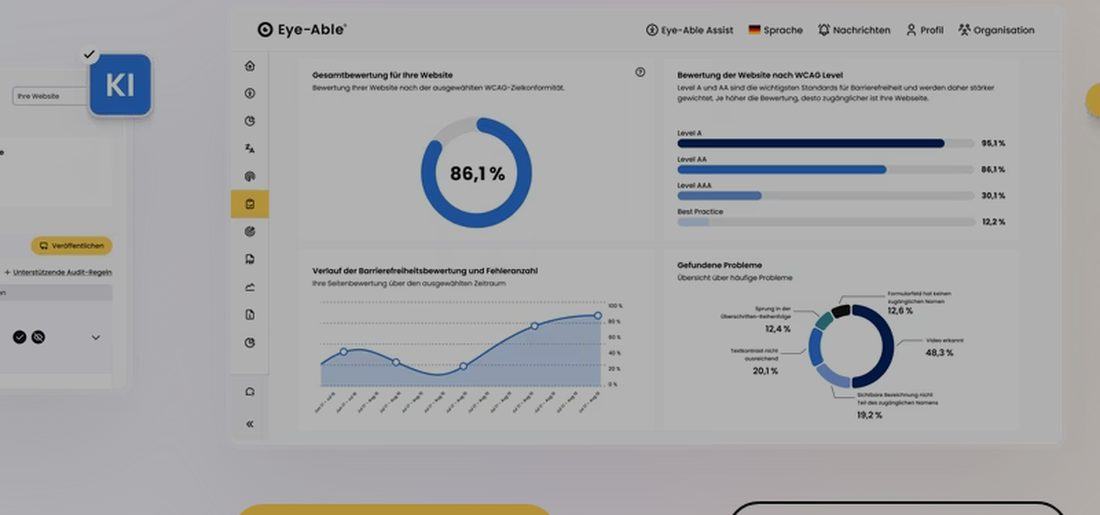
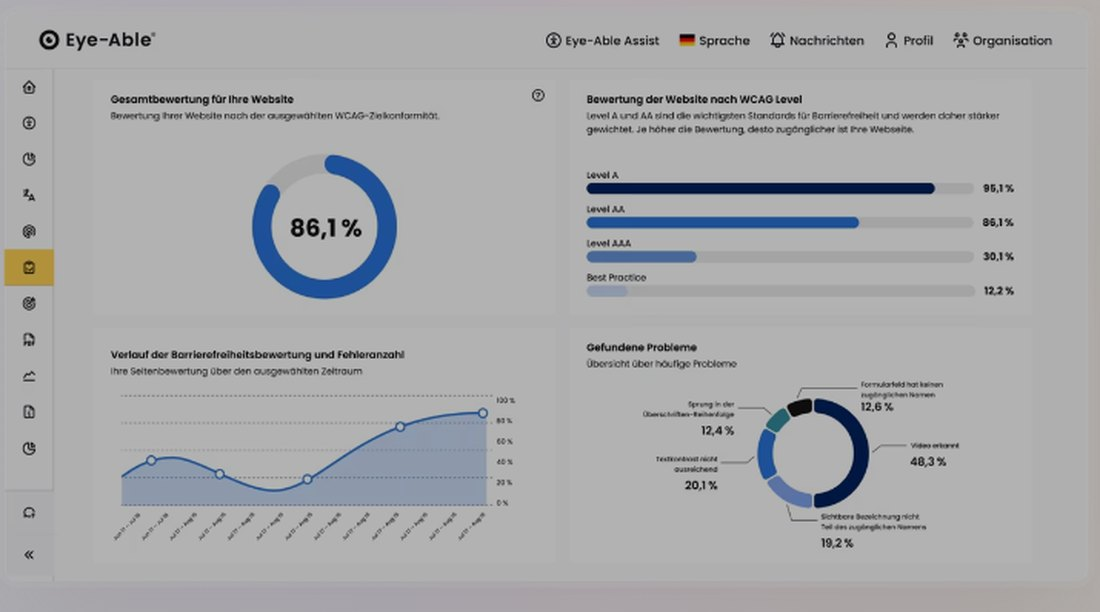
feat(profile): Produkt-Screenshots als große Close-ups statt Website-Link
Der Browser-Rahmen (Fenster-Punkte + Adressleiste) ließ die Shots wie einen
Link zur Anbieter-Website aussehen statt wie Produkt-Snapshots.

- ProductShots: Browser-Chrome raus; große, voll sichtbare Screenshots
  (sm:600px) mit dezenter Quellenzeile „Produkt-Oberfläche · <domain>".
- Eye-Able shot-1: Marketing-Startseite ersetzt durch echten Dashboard-
  Close-up (WCAG-Gesamtbewertung, Level-Bars, Verlauf, gefundene Probleme).
- Crawler-Briefing qualifiziert: Screenshots = eigentliche Produkt-Oberfläche
  (Dashboard/App-UI), NICHT die Startseite; eng zugeschnitten, ohne
  Browser-Rahmen, scharf.

diff --git a/src/components/blocks/crawler/ProductShots.tsx b/src/components/blocks/crawler/ProductShots.tsx
@@ -1,7 +1,7 @@
 import { ImageIcon } from "lucide-react";
 
 interface ProductShotsProps {
-  /** Domain für die angedeutete Browser-Adressleiste */
+  /** Domain als dezente Quellenangabe unter dem Shot */
   domain?: string;
   /** Freigegebene Screenshot-URLs (sobald vorhanden) */
   shots?: string[];
@@ -11,11 +11,13 @@ interface ProductShotsProps {
 }
 
 /**
- * Produkt-Einblick — Browser-gerahmte Software-Screenshots als Scroll-Snap-
- * Galerie. Zeigt echte, freigegebene Screenshots (`shots`); solange keine da
- * sind, gerahmte Platzhalter mit Interface-Andeutung.
+ * Produkt-Einblick — großformatige Close-ups der Software-Oberfläche als
+ * Scroll-Snap-Galerie. Zeigt echte, freigegebene Screenshots (`shots`) in
+ * voller Höhe (kein Browser-Rahmen, damit es als Produkt-Snapshot liest, nicht
+ * als Website-Link); solange keine da sind, gerahmte Platzhalter.
  *
- * Bildquelle: lokale Headless-Screenshots aus dem Crawler-Review-Export.
+ * Bildquelle: lokale Produkt-Interface-Screenshots aus dem Crawler-Review-
+ * Export — die eigentliche Oberfläche (Dashboard/App), NICHT die Startseite.
  * Keine fremden Asset-Dateien hotlinken; sichtbar werden nur freigegebene
  * Pfade aus `crawler-preview.ts`.
  */
@@ -31,57 +33,56 @@ export function ProductShots({
 
   return (
     <div className={className}>
-      <div className="flex snap-x snap-mandatory gap-4 overflow-x-auto pb-1 [-ms-overflow-style:none] [scrollbar-width:none] [&::-webkit-scrollbar]:hidden">
+      <div className="flex snap-x snap-mandatory gap-5 overflow-x-auto pb-1 [-ms-overflow-style:none] [scrollbar-width:none] [&::-webkit-scrollbar]:hidden">
         {items.map((item, i) => (
           <figure
             key={i}
             data-reveal="float"
             style={{ "--reveal-delay": `${i * 110}ms` } as React.CSSProperties}
-            className="w-[86%] flex-shrink-0 snap-start overflow-hidden rounded-xl border border-border bg-white sm:w-[420px]"
+            className="group w-[92%] flex-shrink-0 snap-start self-start overflow-hidden rounded-2xl border border-border bg-white shadow-[0_26px_60px_-34px_rgba(17,17,17,0.3)] sm:w-[600px]"
           >
-            {/* Browser-Chrome */}
-            <div className="flex items-center gap-1.5 border-b border-border bg-cream/70 px-3 py-2">
-              <span aria-hidden className="h-2 w-2 rounded-full bg-border" />
-              <span aria-hidden className="h-2 w-2 rounded-full bg-border" />
-              <span aria-hidden className="h-2 w-2 rounded-full bg-border" />
-              {domain && (
-                <span className="ml-2 truncate rounded bg-white px-2 py-0.5 font-mono text-[10px] text-soft">
-                  {domain}
-                </span>
-              )}
-            </div>
-
-            <div className="relative aspect-[16/10] bg-gradient-to-br from-cream to-stone/30">
-              {item.url ? (
-                // eslint-disable-next-line @next/next/no-img-element
+            {item.url ? (
+              <>
+                {/* eslint-disable-next-line @next/next/no-img-element */}
                 <img
                   src={item.url}
-                  alt="Produkt-Interface"
-                  className="absolute inset-0 h-full w-full object-cover object-top"
+                  alt="Produkt-Oberfläche"
+                  className="block w-full"
                   loading="lazy"
                 />
-              ) : (
-                <>
-                  {/* angedeutetes Interface-Layout */}
-                  <div aria-hidden className="absolute inset-3 flex gap-2">
-                    <div className="w-8 rounded border border-border bg-white/70" />
-                    <div className="flex flex-1 flex-col gap-2">
-                      <div className="h-1/3 rounded border border-border bg-white/70" />
-                      <div className="grid flex-1 grid-cols-2 gap-2">
-                        <div className="rounded border border-border bg-white/70" />
-                        <div className="rounded border border-border bg-white/70" />
-                      </div>
+                <figcaption className="flex items-center justify-between gap-3 border-t border-border bg-cream/50 px-4 py-2.5">
+                  <span className="inline-flex items-center gap-1.5 font-mono text-[10.5px] font-bold uppercase tracking-[0.1em] text-brand-dark">
+                    <span aria-hidden className="h-1.5 w-1.5 rounded-full bg-brand" />
+                    Produkt-Oberfläche
+                  </span>
+                  {domain && (
+                    <span className="truncate font-mono text-[10px] text-soft">
+                      {domain}
+                    </span>
+                  )}
+                </figcaption>
+              </>
+            ) : (
+              <div className="relative aspect-[16/10] bg-gradient-to-br from-cream to-stone/30">
+                {/* angedeutetes Interface-Layout */}
+                <div aria-hidden className="absolute inset-4 flex gap-2.5">
+                  <div className="w-10 rounded border border-border bg-white/70" />
+                  <div className="flex flex-1 flex-col gap-2.5">
+                    <div className="h-1/3 rounded border border-border bg-white/70" />
+                    <div className="grid flex-1 grid-cols-2 gap-2.5">
+                      <div className="rounded border border-border bg-white/70" />
+                      <div className="rounded border border-border bg-white/70" />
                     </div>
                   </div>
-                  <div className="absolute inset-0 flex items-center justify-center">
-                    <span className="inline-flex items-center gap-1.5 rounded-full border border-border bg-white/85 px-3 py-1 font-ui text-[11px] font-medium text-soft backdrop-blur-sm">
-                      <ImageIcon size={12} aria-hidden />
-                      Produkt-Einblick folgt
-                    </span>
-                  </div>
-                </>
-              )}
-            </div>
+                </div>
+                <div className="absolute inset-0 flex items-center justify-center">
+                  <span className="inline-flex items-center gap-1.5 rounded-full border border-border bg-white/85 px-3 py-1 font-ui text-[11px] font-medium text-soft backdrop-blur-sm">
+                    <ImageIcon size={12} aria-hidden />
+                    Produkt-Einblick folgt
+                  </span>
+                </div>
+              </div>
+            )}
           </figure>
         ))}
       </div>

diff --git a/Crawler/INTEGRATION_SUPERTOOLS.md b/Crawler/INTEGRATION_SUPERTOOLS.md
@@ -186,12 +186,22 @@ Das Frontend hat zwei neue Slots, die der Crawler **je freigegebenem Tool
 mitliefern muss**:
 
 ### 1) Produkt-Screenshots (aktuelle Snapshots)
-- Der Crawler macht pro Tool **1–3 aktuelle Screenshots** der öffentlich
-  sichtbaren Produkt-/Marketing-Seite (Software-Interface, Dashboard, App-UI).
+- Der Crawler macht pro Tool **1–3 aktuelle Close-ups der eigentlichen
+  Produkt-Oberfläche** (Dashboard, App-UI, Software-Interface).
+- **Qualifizierung — wichtig:** NICHT die Marketing-/Startseite abfotografieren
+  (Hero mit Navigation, Claim, Buttons). Das liest sich im Frontend wie ein
+  Link zur Website, nicht wie ein Produkt-Snapshot. Ziel ist die tatsächliche
+  Oberfläche: das eigentliche Interface-Panel möglichst formatfüllend und
+  eng zugeschnitten. Wenn die Oberfläche nur als eingebettetes Produktbild auf
+  der Marketing-Seite existiert (z. B. Dashboard-Mockup), genau dieses Panel
+  eng ausschneiden — ohne Nav, Claim und Seitenrand.
+- **Kein Browser-Rahmen nötig** (Adressleiste/Fenster-Punkte): das Frontend
+  rahmt die Bilder selbst sauber. Reiner Interface-Ausschnitt genügt.
 - Eigene Aufnahmen der gerenderten Seite (Headless-Browser-Screenshot), keine
   fremden Asset-Dateien hotlinken. Cookie-/Consent-Overlays vor dem Shot
   wegklicken oder Regionen ohne Overlay wählen.
-- Zielformat: Breite ~1100 px, JPEG, unter ~120 KB. Ablage z. B.
+- Zielformat: Breite ~1100–1400 px, JPEG, unter ~120 KB, scharf (nicht aus
+  einem winzigen Ausschnitt hochskaliert). Ablage z. B.
   `public/brand/screenshots/<slug>/shot-N.jpg`.
 - Export ins Frontend als:
   ```ts
@@ -218,3 +228,33 @@ mitliefern muss**:
 Beide Felder werden vom Export-Script mit ausgegeben und wie die anderen
 Preview-Daten nur nach Review sichtbar. Frontend-Quelle bleibt ausschließlich
 `src/mocks/tools/crawler-preview.ts`.
+
+Konkreter Export mit bestehenden lokalen Screenshots:
+
+```bash
+cd /Users/wolfram/web-projekte/supertools
+.venv/bin/python scripts/export_crawler_toolcards_preview.py \
+  data/crawler/runs/full-excel-2026-06-28/product-candidates.json \
+  --decisions data/crawler/review-decisions.json \
+  --out src/mocks/tools/crawler-preview.ts
+```
+
+Konkreter Export inklusive neuer Headless-Screenshots:
+
+```bash
+cd /Users/wolfram/web-projekte/supertools
+.venv/bin/python scripts/export_crawler_toolcards_preview.py \
+  data/crawler/runs/full-excel-2026-06-28/product-candidates.json \
+  --decisions data/crawler/review-decisions.json \
+  --out src/mocks/tools/crawler-preview.ts \
+  --capture-screenshots \
+  --screenshot-root public/brand/screenshots \
+  --screenshot-limit 3
+```
+
+Ohne `--capture-screenshots` werden nur bereits vorhandene lokale Dateien unter
+`public/brand/screenshots/<slug>/shot-N.jpg` in
+`crawlerToolScreenshotPreview` referenziert. Mit `--capture-screenshots` nimmt
+der Exporter 1-3 aktuelle Viewport-Screenshots pro freigegebenem Tool auf,
+klickt einfache Consent-Dialoge weg, skaliert auf ca. 1100 px Breite und
+komprimiert die JPEGs zielgerichtet unter ca. 120 KB.
